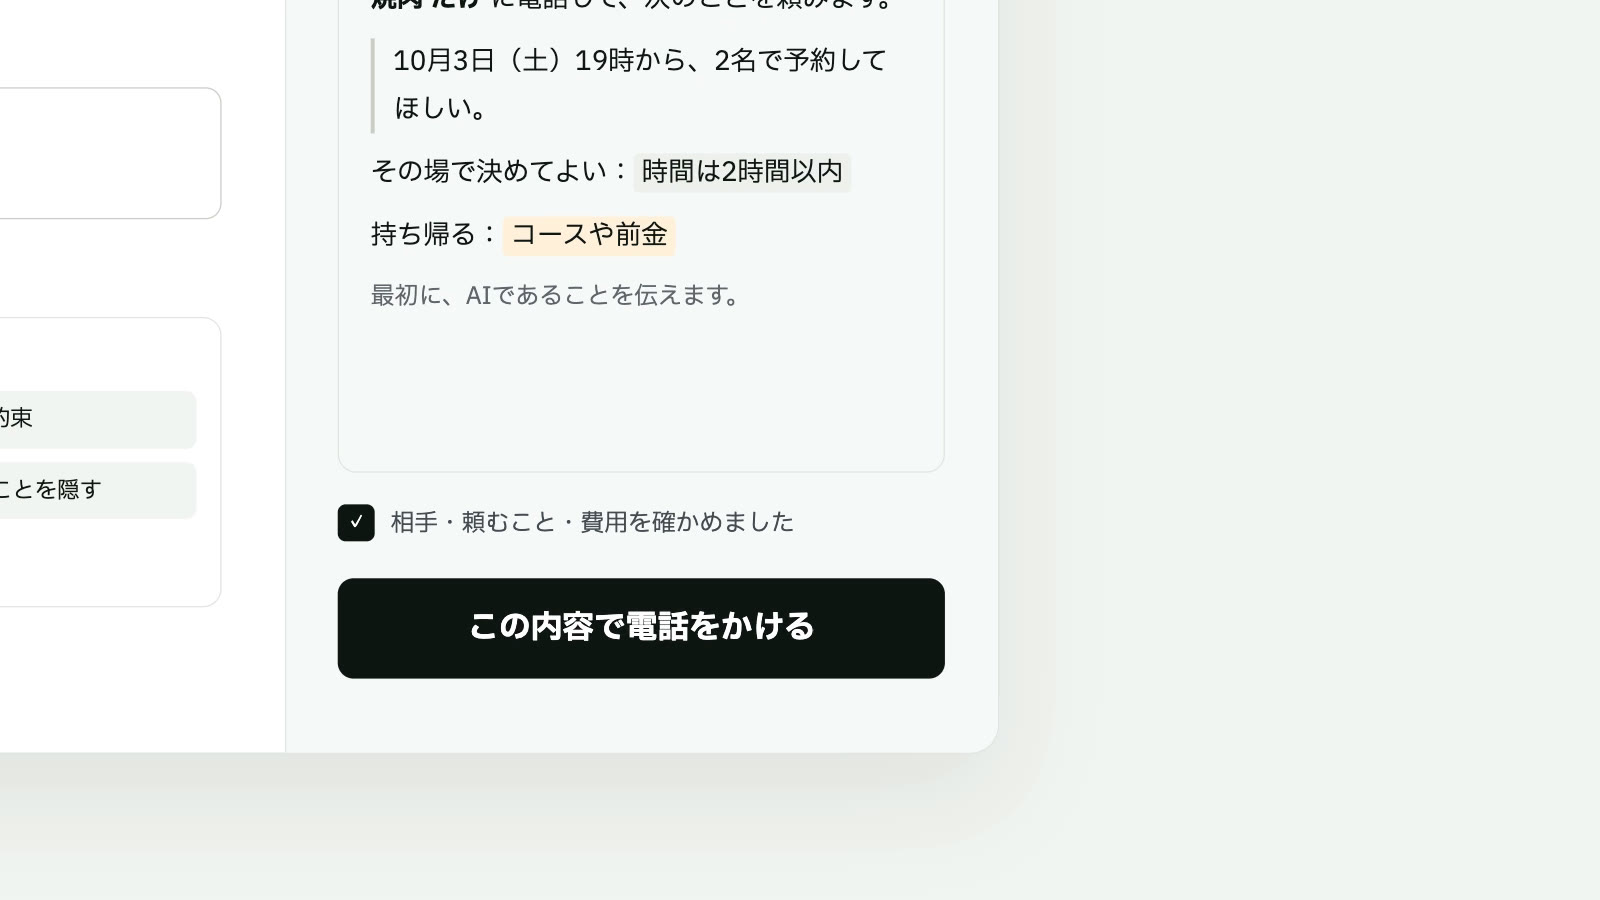
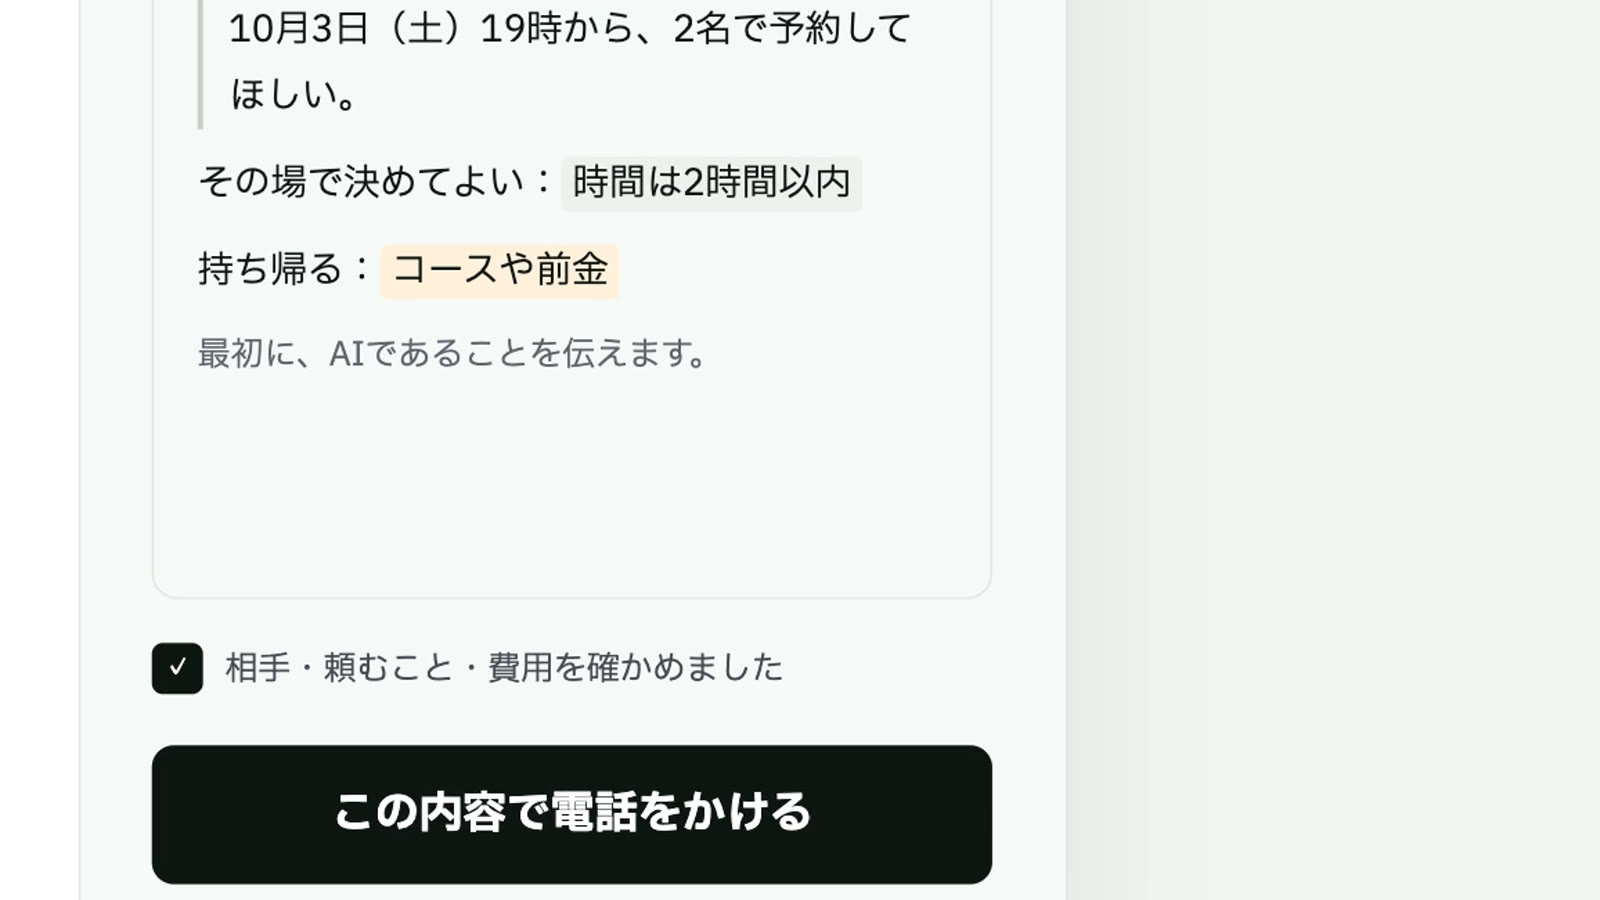
fix: Oathra page follow-ups — whole headings at 320px, caption-free poster, cleaner second still
- The moved start and consult headings keep Japanese phrases whole (320px broke '見比べ／る。').
- The 30-second film poster is the 3/3 frame cut above the burned-in caption, so the
  native controls no longer cover it; manifest hash updated.
- The second design still shows only the confirm column and the call button, without
  cut-off fragments of the neighbouring panel.

diff --git a/public/assets/oathra-lp.css b/public/assets/oathra-lp.css
@@ -79,6 +79,8 @@
 [data-oathra-lp] .olp-status__detail .owned-access .owned-requirements{margin:6px 0 0;font-size:13.5px;line-height:1.8;color:var(--olp-muted);max-width:none}
 [data-oathra-lp] .olp-status .owned-features__source{margin-top:16px}
 
+/* Keep Japanese phrases whole in the moved start and consult headings (320px broke '見比べ／る。'). */
+[data-oathra-lp] .owned-start h2,[data-oathra-lp] .owned-consult h2{word-break:keep-all;overflow-wrap:anywhere}
 @media (max-width:1000px){
 [data-oathra-lp] .olp-steps__list{grid-template-columns:repeat(2,minmax(0,1fr))}
 [data-oathra-lp] .olp-ring__cards{grid-template-columns:1fr}
